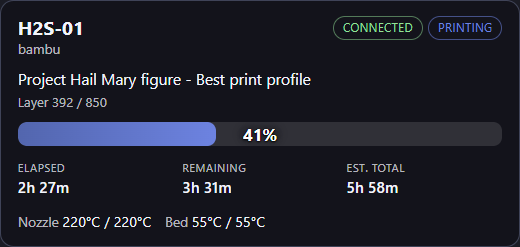
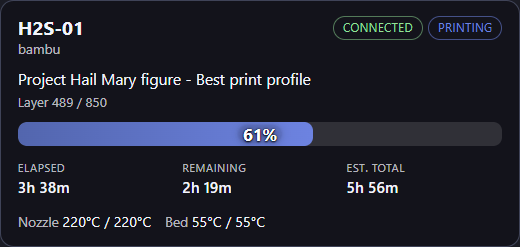
Updating the overlay docs to match current state

diff --git a/content/bridge/user/overlays/catalog.md b/content/bridge/user/overlays/catalog.md
@@ -13,13 +13,13 @@ Use a **separate OBS Browser Source per printer**, each with its own `printer=` 
 | Overlay | Browser Source URL | Recommended size | What it shows |
 | --- | --- | --- | --- |
 | **Overview** | `http://127.0.0.1:29067/bridge/overview/` | **520 × 270** | Name, connection, print state, job, layers, progress bar with centered %, elapsed / remaining / est. total, temps |
-| **Compact** | `http://127.0.0.1:29067/bridge/compact/` | **520 × 100** | Name, print-state badge, progress bar with % and remaining time on the bar |
+| **Compact** | `http://127.0.0.1:29067/bridge/compact/` | **520 × 130** | Name, print-state badge, job name, progress bar with % and remaining time on the bar |
 | **Status** | `http://127.0.0.1:29067/bridge/status/` | **420 × 140** | Name, connection, print state (HTTP poll) |
 | **Progress** | `http://127.0.0.1:29067/bridge/progress/` | **480 × 160** | Job name, progress bar, remaining (HTTP poll) |
 
 ![Overview overlay with job progress, times, and temperatures](/images/overlays/overview.png)
 
-![Compact overlay showing printer name, printing badge, progress percent, and remaining time](/images/overlays/compact.png)
+![Compact overlay showing printer name, job name, printing badge, progress percent, and remaining time](/images/overlays/compact.png)
 
 Append `?printer=YOUR_PRINTER_ID`. Copy ready-made links from **Printers → Details** in Bridge.
 

diff --git a/content/bridge/user/overlays/setup-obs.md b/content/bridge/user/overlays/setup-obs.md
@@ -39,7 +39,7 @@ These steps assume **OBS Studio**. Other apps with a Browser Source (Streamlabs 
    | Overlay | Start with |
    | --- | --- |
    | Overview | **520 × 270** |
-   | Compact | **520 × 100** |
+   | Compact | **520 × 130** |
    | Status | **420 × 140** |
    | Progress | **480 × 160** |
 
